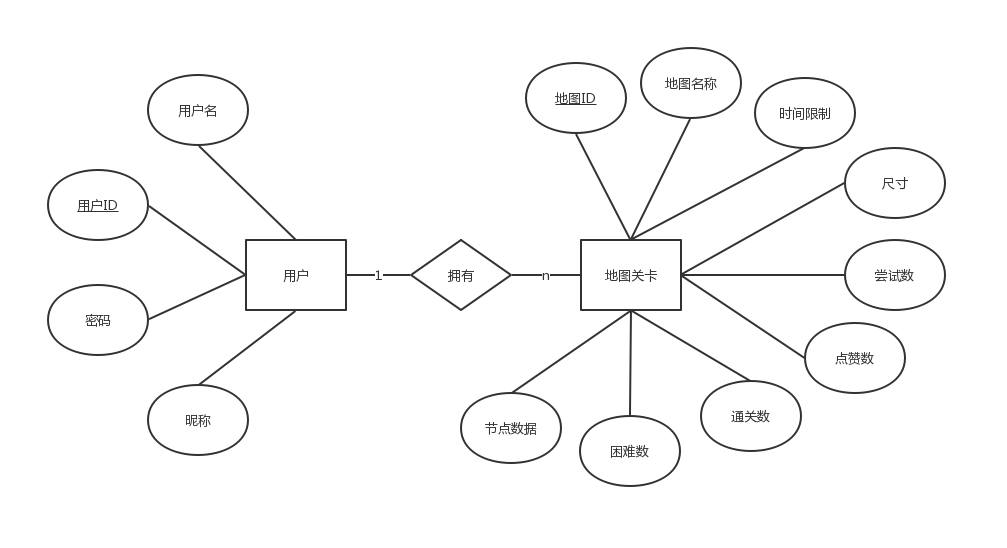
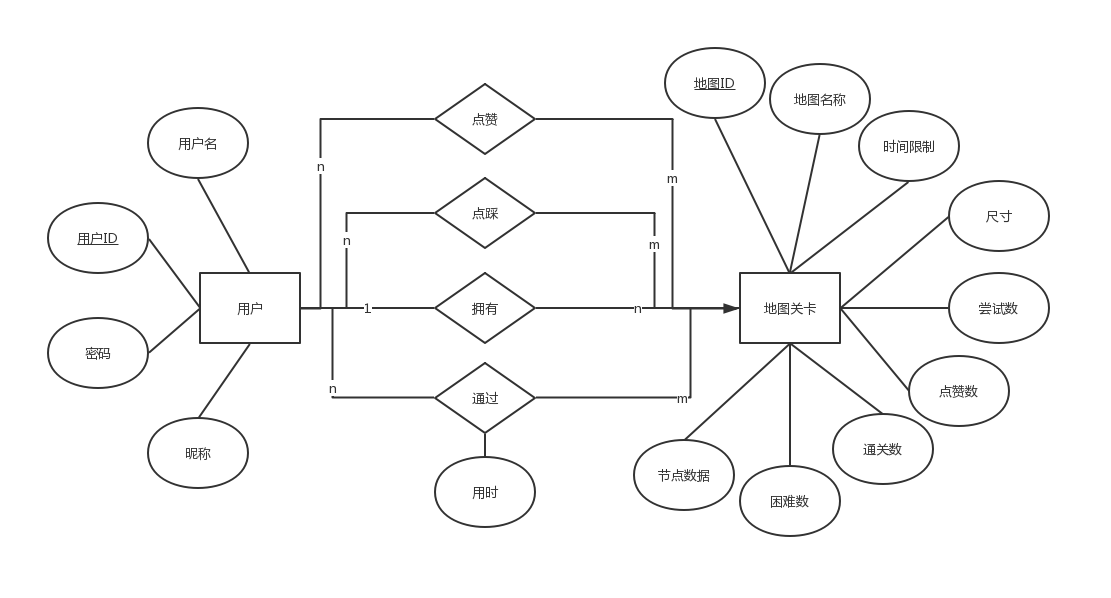
更新 4 数据库的部分

diff --git a/4-论文（MarkDown）.md b/4-论文（MarkDown）.md
@@ -229,6 +229,23 @@ Node.js 主要有以下技术特点：
 4. 尺寸。用户创建地图时自定义的地图尺寸，用于构建地图的边界。
 5. 交互数据。用于存储所有用户对该地图关卡的交互数据记录，包括所有用户对其的点赞、困难、通关、尝试数量。
 6. 节点数据。用于存储用户编辑后地图的每个节点的数据，用于其他玩家游玩时构建地图。
+
+通关关系包含用户和地图关卡之间的通过信息，包含以下属性：
+1. 关系ID。用户在成功通过地图关卡的时候自动分为的唯一数字标识。
+2. 用户ID。用户和地图关卡之间通关关系中的用户ID，用于检索用户信息。
+3. 地图ID。用户和地图关卡之间通关关系中的地图关卡ID，用户检索地图关卡信息。
+4. 用时。用户通过地图关卡的用时，用于通关排行的依据。
+
+点赞关系包含用户和地图关卡之间的所属信息，包含以下属性：
+1. 关系ID。用户在给地图点赞的时候自动分配的唯一数字标识。
+2. 用户ID。用户和地图关卡之间点赞关系中的用户ID，用于检索用户信息。
+3. 地图ID。用户和地图关卡之间点赞关系中的地图关卡ID，用户检索地图关卡信息。
+
+点踩关系包含用户和地图关卡之间的所属信息，包含以下属性：
+1. 关系ID。用户在给地图点踩的时候自动分配的唯一数字标识。
+2. 用户ID。用户和地图关卡之间点踩关系中的用户ID，用于检索用户信息。
+3. 地图ID。用户和地图关卡之间点踩关系中的地图关卡ID，用户检索地图关卡信息。
+
 ### <div id="3-5-2"> 3.5.2 客户端数据建模
 用户客户端数据使用文件存储，文件目录结构如图 3.3 所示：
 ![文件目录结构](./论文图示/文件目录结构.png)
@@ -300,6 +317,15 @@ Node.js 主要有以下技术特点：
 >   2. 排行榜模块：排行榜模块同样用到网络模块，请求服务端获得点赞最多的地图数据和获赞最多的用户数据，该模块根据数据进行界面构建。
 
 ### <div id="4-2-2"> 4.2.2 服务端功能模块设计
+
+服务端是该项目的必需部分，负责支持整个项目功能运行。服务端主要包含数据库读写和请求接口实现两大部分，在该项目的运行中，涉及到网络请求的功能较多，因此需要服务端有较强的数据库读写能力和请求处理能力。下面将对服务端进行模块划分，并对其详细分析。
+
+1. 请求处理模块
+
+2. 逻辑计算中间层
+
+3. 数据库读写模块
+
 ### <div id="4-2-3"> 4.2.3 数据库设计
 数据库包含两张表，分别为用户表（user）和地图关卡表（map）。单张表遵循第一范式，每张标准的属性均不可再分，同时不同属性之间不存在相同或相似的情况，避免了数据冗余。两张表之间遵循第二范式，采用一对多关系，即一个用户对应多个地图，地图中以外键（uid）来关联用户，避免了用户其它信息在地图表中的重复造成的冗余。
 
@@ -332,5 +358,29 @@ Node.js 主要有以下技术特点：
 | trys_count | INT | 11 | true     |        |    false   |    |        |
 | nodes_data | JSON|    |          | true   |    false   |    |        |
 
+3. 点赞关系表
+
+| Field | Type | Length | Unsigned | Binary | Allow NULL | Key | Extra |
+|:-----:|:-----:|:-----:|:-----:|:-----:|:-----:|:--------:|:-----:|
+| gid   | INT  |  11    | true |          |           | PRI | auto_increment |
+| uid   | INT   |  11   | true     |        |         | MUL |              |
+| mid   | INT   |  11   | true     |        |         | MUL |              |
+
+4. 点踩关系表
+
+| Field | Type | Length | Unsigned | Binary | Allow NULL | Key | Extra |
+|:-----:|:-----:|:-----:|:-----:|:-----:|:-----:|:--------:|:-----:|
+| did   | INT  |  11    | true |          |           | PRI | auto_increment |
+| uid   | INT   |  11   | true     |        |         | MUL |              |
+| mid   | INT   |  11   | true     |        |         | MUL |              |
+
+5. 通过关系表
+
+| Field | Type | Length | Unsigned | Binary | Allow NULL | Key | Extra |
+|:-----:|:-----:|:-----:|:-----:|:-----:|:-----:|:--------:|:-----:|
+| pid   | INT  |  11    | true |          |           | PRI | auto_increment |
+| uid   | INT   |  11   | true     |        |         | MUL |              |
+| mid   | INT   |  11   | true     |        |         | MUL |              |
+| mid   | FLOAT   |     | true     |        |         |     |              |
 
 ## <div id="4-3"> 4.3 本章小结
